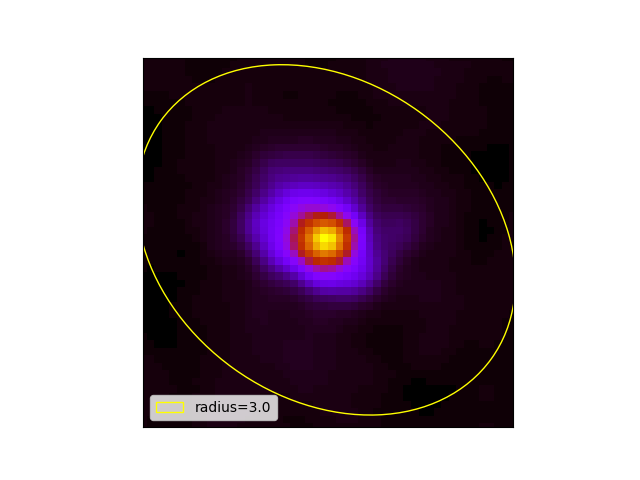
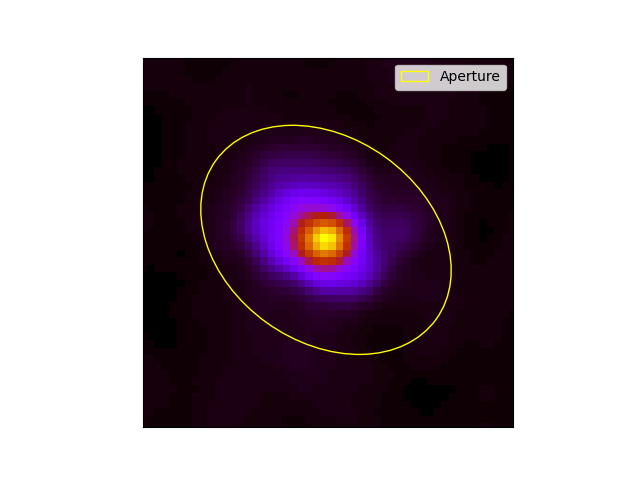
Add new image for integrate

diff --git a/software/hip.html b/software/hip.html
@@ -705,7 +705,7 @@
                             &#160;&#160;&#160;&#160;&#160;diagnosis: True<br>
                             &#160;&#160;&#160;&#160;&#160;parameters:<br>
                             &#160;&#160;&#160;&#160;&#160;- band: all<br>
-                            &#160;&#160;&#160;&#160;&#160;&#160;&#160;sizeFactor: 3<br><br>
+                            &#160;&#160;&#160;&#160;&#160;&#160;&#160;sizeFactor: 1<br><br>
                         </i>
                    </td>
                </tr>
@@ -812,7 +812,7 @@
                         &#160;&#160;&#160;&#160;&#160;diagnosis: True<br>
                         &#160;&#160;&#160;&#160;&#160;parameters:<br>
                         &#160;&#160;&#160;&#160;&#160;- band: all<br>
-                        &#160;&#160;&#160;&#160;&#160;&#160;&#160;sizeFactor: 3<br><br>
+                        &#160;&#160;&#160;&#160;&#160;&#160;&#160;sizeFactor: 1<br><br>
                     </i>
                </td>
            </tr>
